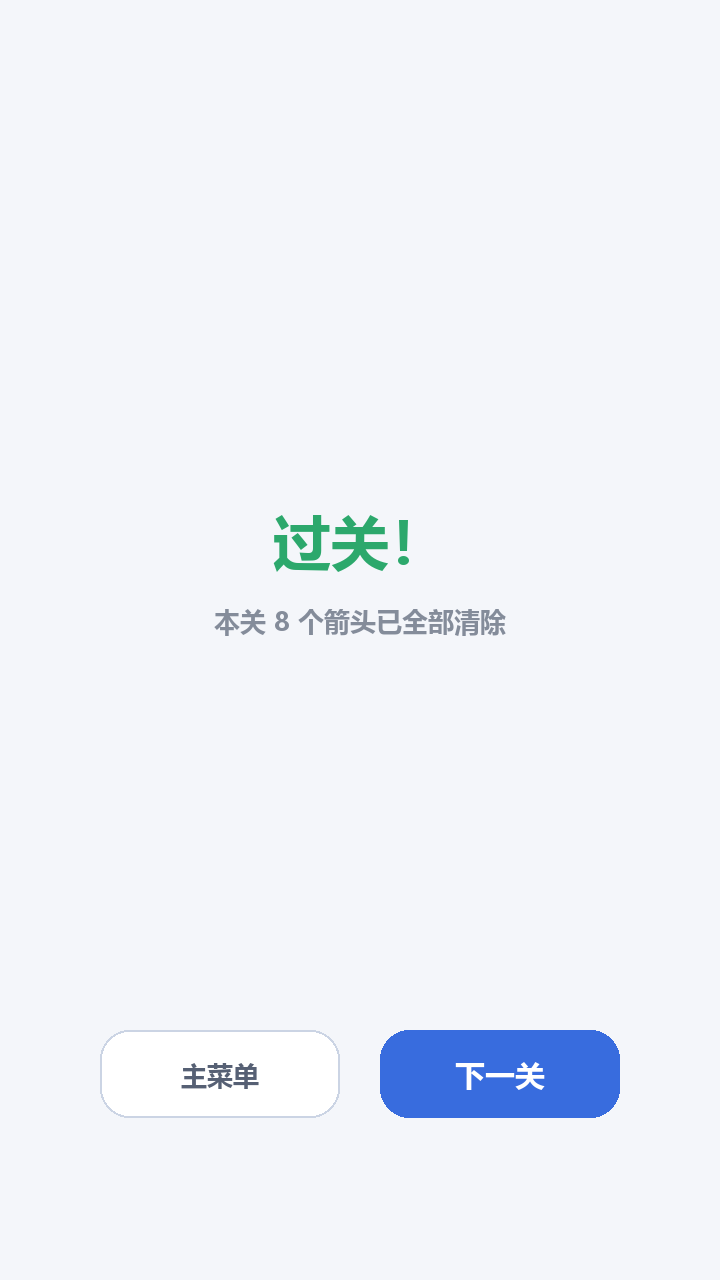
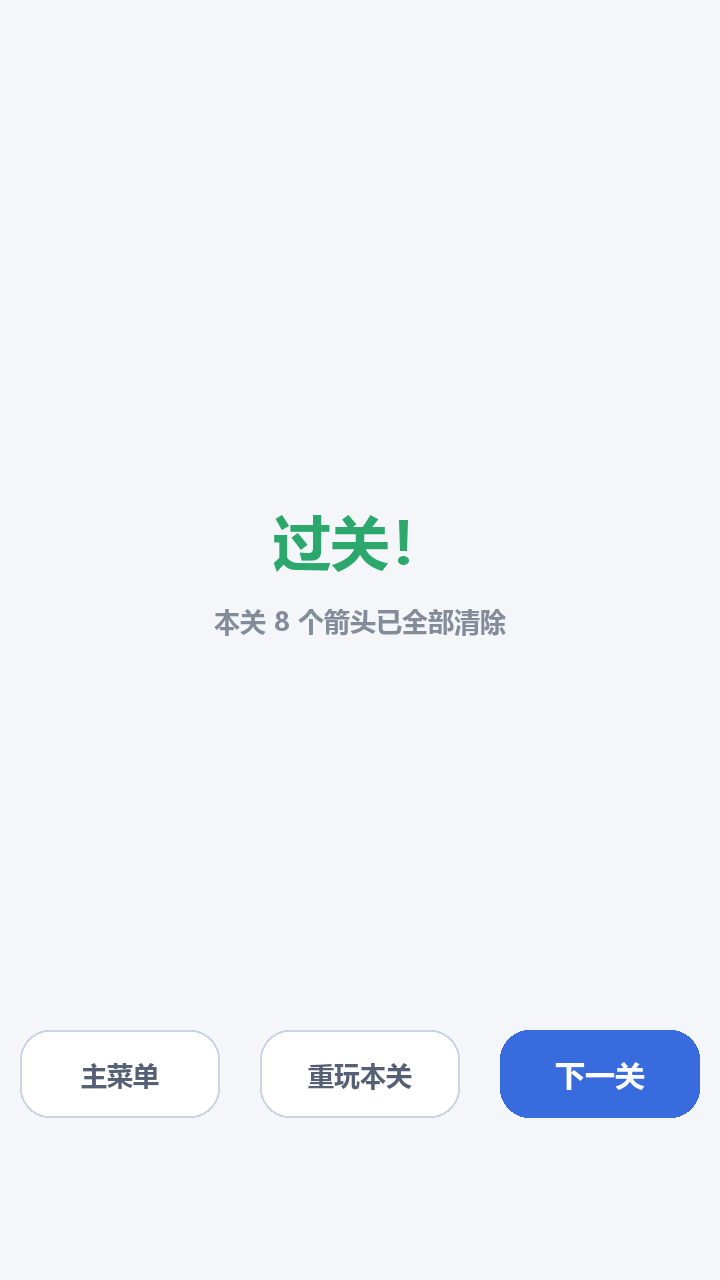
docs: 更新操作说明与截图，记录试玩反馈的修复过程

Changed region(s): [[0.4278, 0.7812, 0.9778, 0.875], [0.2444, 0.8125, 0.3667, 0.875], [0.1222, 0.8125, 0.2139, 0.875]]

diff --git a/README.md b/README.md
@@ -99,24 +99,30 @@ python -m venv .venv
 | 操作 | 效果 |
 |---|---|
 | 鼠标点击箭头 | 尝试消除；前方无阻挡则飞出，有阻挡则触发碰撞反馈并扣 1 次失误 |
-| 鼠标点击按钮 | 「开始游戏」/「继续游戏」/ 关卡卡片 /「主菜单」/「重新开始」/「下一关」/「重试本关」 |
+| 鼠标点击按钮 | 「开始游戏」/「继续游戏」/ 关卡卡片 /「主菜单」/「重新开始」/「下一关」/「重玩本关」/「重试本关」 |
 | `Enter` 或 `空格` | 在开始界面进入选关界面；在结算界面确认主操作 |
 | `R` | 重新开始当前关卡 |
 | `Esc` | 游戏中或结算界面 → 返回开始界面；在开始界面再按一次退出程序 |
 
-界面底部始终并排显示两个按钮：左侧「主菜单」（返回开始界面），右侧为当前场景的主操作。
+界面底部是按钮行：最左固定为「主菜单」（返回开始界面），其余为当前场景的主操作（重新开始 / 下一关 / 重试本关）；通关结算时会在两者之间多出一个「重玩本关」。
+
+> 关于键盘：程序启动时会关闭输入法对键盘的接管（`pygame.key.stop_text_input()`），
+> 以保证 `R`、`Esc`、`Enter` 等按键直达游戏。若按键没有反应，请确认游戏是通过
+> 项目根目录的 `main.py`（或 `run_game.bat`）启动的——该设置只在入口处生效；
+> 另外需要游戏窗口处于焦点状态。
 
 ---
 
 ## 功能一览
 
 - **四方向箭头与路径检测**：沿朝向逐格扫描，边界与阻挡判定统一处理
-- **两类动画反馈**：飞出（0.40 秒飞出并淡出）、碰撞（0.34 秒晃动，幅度 9 像素 + 变红 + 顶部文字提示）
+- **两类动画反馈**：飞出（0.55 秒飞出并淡出）、碰撞（0.34 秒晃动，幅度 9 像素 + 变红 + 顶部文字提示）
 - **失误机制**：每关 3 次机会，界面实时显示剩余次数
 - **四套界面**：开始界面、关卡选择界面、游戏界面、通关/失败结算界面
 - **5 个关卡**：难度递进，全部经求解器验证可通关
 - **继续游戏**：通关过至少一关后，开始界面出现「继续游戏 · 第 N 关」入口
 - **关卡选择**：可直接进入任意一关，已通关的关卡标绿色「已通关」
+- **重玩本关**：通关后结算界面提供「重玩本关」，无需退回主菜单重新选关
 
 界面顶部的信息栏实时显示：当前关卡名、剩余箭头数、剩余失误次数。
 

diff --git a/DEVLOG.md b/DEVLOG.md
@@ -295,4 +295,29 @@
 
 ---
 
+### 记录 11：据试玩反馈修复按键失效与动画速度
+
+- **我的要求**：试玩后反馈两点——①「按 R 没效果啊」；②飞出动画偏快，想看慢一点。
+- **借助何种 AIGC 技术**：WorkBuddy
+- **AI 实现或提供了什么**：
+  1. **先验证再动手**：写临时脚本模拟三种场景（游戏中 / 结算界面 / 选关界面）派发
+     `KEYDOWN` 事件，确认**按 R 的代码逻辑本身是正确的**——结算界面按 R 确实会把
+     state 从 `result` 变回 `playing`、棋盘恢复 8/8。因此问题不在游戏逻辑，而是
+     **按键事件没有送进程序**；
+  2. 定位原因为 **Windows 中文输入法（IME）接管键盘**：SDL 默认在窗口创建时启用
+     文本输入，输入法处于中文状态时 `R` 这类按键被用于组字，游戏收不到 `KEYDOWN`。
+     修复：在 `main.py` 启动时调用 `pygame.key.stop_text_input()` 显式关闭；
+  3. 同时增加一条**不依赖键盘的路径**：把底部按钮行改为按状态生成，通关结算时
+     由两个按钮变为三个 —— 「主菜单 | 重玩本关 | 下一关」，鼠标也能重玩本关；
+  4. 依试玩反馈把 `FLY_OUT_DURATION` 由 `0.40` 秒调为 `0.55` 秒。
+- **实际效果**：**21 项自动化测试全部通过**（新增 T11 验证「重玩本关」按钮、
+  T12 验证 R 键在游戏中与结算界面均生效）。截图确认三按钮布局正常、失败界面仍为两按钮。
+- **人工修改**：
+  - 问题由**本人实际试玩**发现，AI 未主动预见；
+  - AI 的第一反应是"检查代码是否有 bug"，实测后才转向环境原因（输入法），
+    说明「先复现、再定性」比直接改代码更有效；
+  - 动画时长由本人给出主观判断（偏快），AI 只负责换算成具体参数。
+
+---
+
 （后续协作记录继续往下追加）
